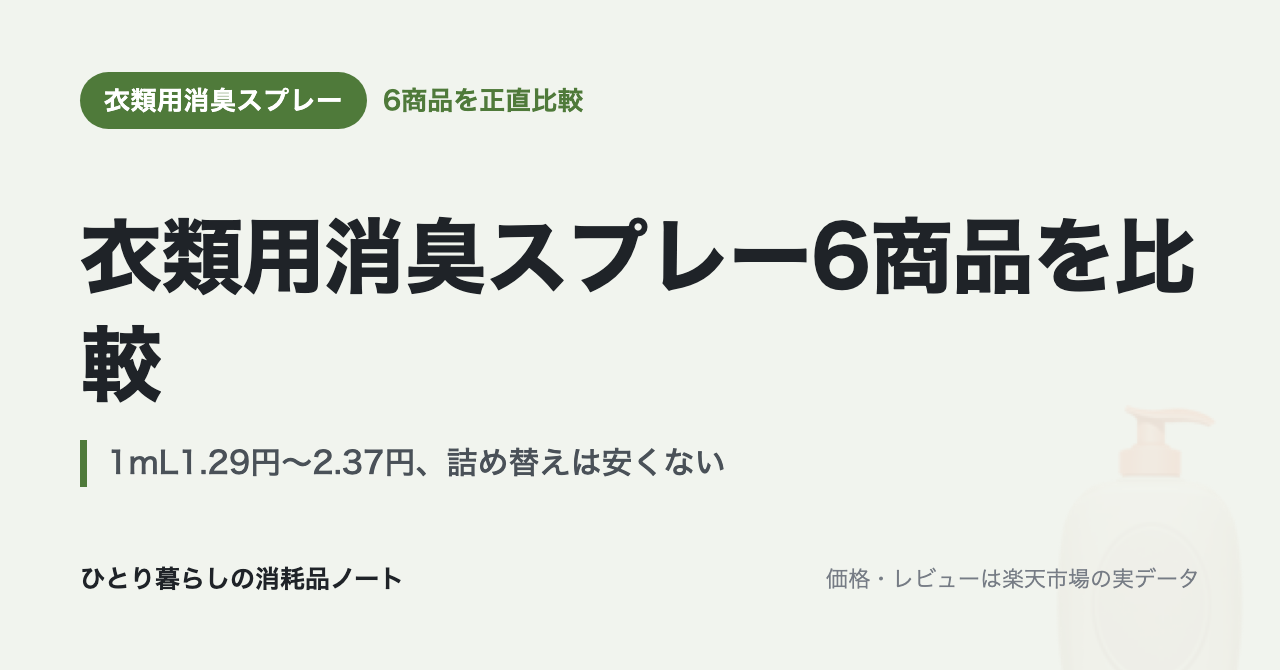
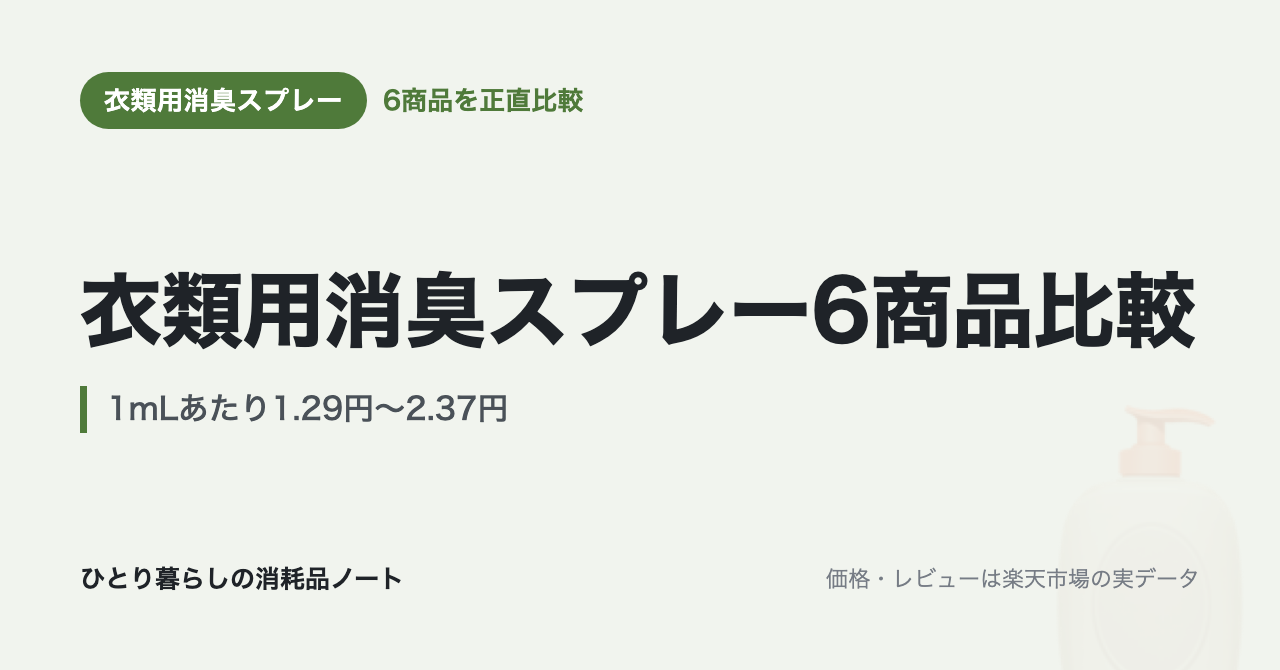
消臭スプレー記事の断定を根拠のある範囲に戻し、長すぎたタイトルを詰めた
外部の添削で、価格データだけで語れない範囲まで結論を広げていると指摘された。
読み返すと確かにそのとおりだったので直した。

とくに矛盾していたのが「洗える衣類なら洗ったほうが安い」。本文では
「1プッシュの量は公表されていないので1回あたりは出せない」と書きながら、
そのすぐ後で価格を根拠に結論を出していた。主張自体は残す価値があるので、
根拠を価格から「スプレーは汚れを落とす工程ではない」という質の違いに変えた。

詰め替えの扱いも直した。ファブリーズの23%は「詰め替え」と「6袋まとめ買い」が
混ざった数字で、同条件の比較になっていない。本体と詰め替えを同じ商品で
比べられるのはリセッシュだけなので、詰め替え単体の効果は8%と明記し、
23%はまとめ買い込みの数字だと分けて書いた。

ほかに落とした断定:
  - 「消臭の性能ではなく香りに払う差」… 価格差の内訳は今回のデータで判らない
  - 「香りの好みが合うかどうかが全て」… 単価・容量・素材も選択軸として残る
  - 「レビュー件数が増えると評価は下がりやすい」… 6商品では証明できない一般論
  - 「ソファ・カーテン・ラグは洗濯機に入りません」… カーテンもラグも洗える物がある
  - 「スプレーはこの次、7番目」… 他記事を読んでいない人には数字だけが浮く

タイトルは40字あった。ほかの3本を32字以内に直した直後に、同じ型のミスを
新しい記事で作っていた。あわせて、GSCで表示が出ている dish-soap /
water-filter / shampoo の3本も32字以内に詰めた（検索されている語は残した）。
残り7本は表示ゼロなので、ドメイン移行後にまとめて見直す。

商品ごとに「買うなら／買わなくていい」の2行を足した。購入を止める記述が
多い記事なので、買う理由のある人には判断材料が要る。

Changed region(s): [[0.0625, 0.3284, 0.9375, 0.7164]]

diff --git a/content/shampoo.md b/content/shampoo.md
@@ -1,5 +1,5 @@
 ---
-title: "シャンプー詰め替え比較6選｜1回2.8円と8.5円、3倍の差は洗浄成分だった"
+title: "シャンプー詰め替え比較｜1回2.8円と8.5円、差は洗浄成分"
 description: "シャンプーの詰め替え6商品を1回あたりコストで比較。洗浄成分の種類・容量あたりの単価・低刺激タイプとの違いを実データで整理しました。毎日使うのに選ぶ基準がわからない人向けに、髪質別の選び分けも解説します。"
 category: "シャンプー"
 date: "2026-08-16"

diff --git a/content/dish-soap.md b/content/dish-soap.md
@@ -1,5 +1,5 @@
 ---
-title: "食器用洗剤おすすめ比較6選｜1回2円台。差が出るのは値段ではなかった"
+title: "食器用洗剤6商品を比較｜1回2円台、差は値段ではなかった"
 description: "食器用洗剤6商品を1回あたりコストで比較。大容量詰め替えと小容量の差、界面活性剤の濃度、手荒れ対策まで実データで整理しました。一人暮らしで手洗いしている人向けに、コスト以外で選ぶ基準も解説します。"
 category: "食器用洗剤"
 date: "2026-08-11"

diff --git a/content/water-filter.md b/content/water-filter.md
@@ -1,5 +1,5 @@
 ---
-title: "浄水器カートリッジおすすめ比較6選｜交換コストで選ぶ一人暮らしの水対策"
+title: "浄水器カートリッジおすすめ6商品比較｜交換コストで選ぶ"
 description: "浄水器カートリッジのおすすめ6商品を比較。1個あたりコスト・交換目安・対応タイプを正直レビュー。ペットボトルをやめたい一人暮らしの人向けに蛇口直結型とポット型の選び方も解説します。"
 category: "浄水器"
 date: "2026-08-01"
